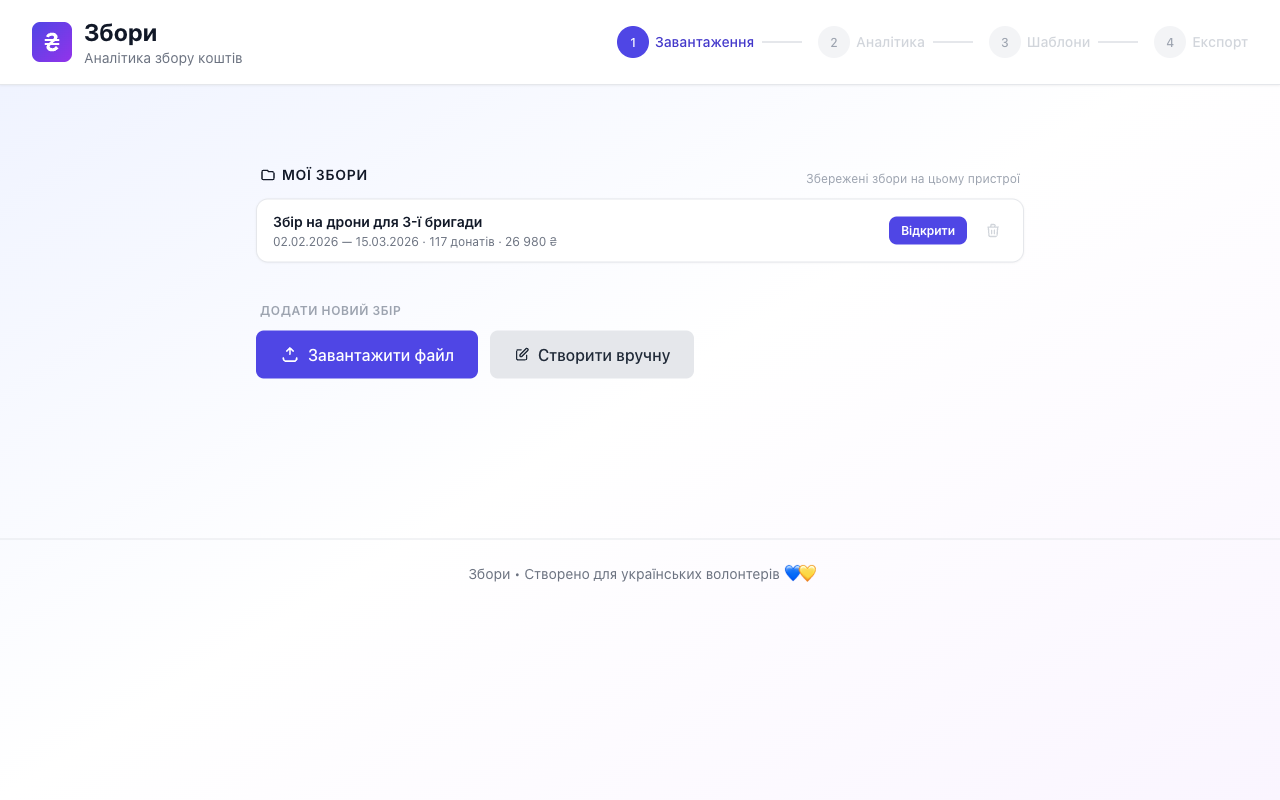
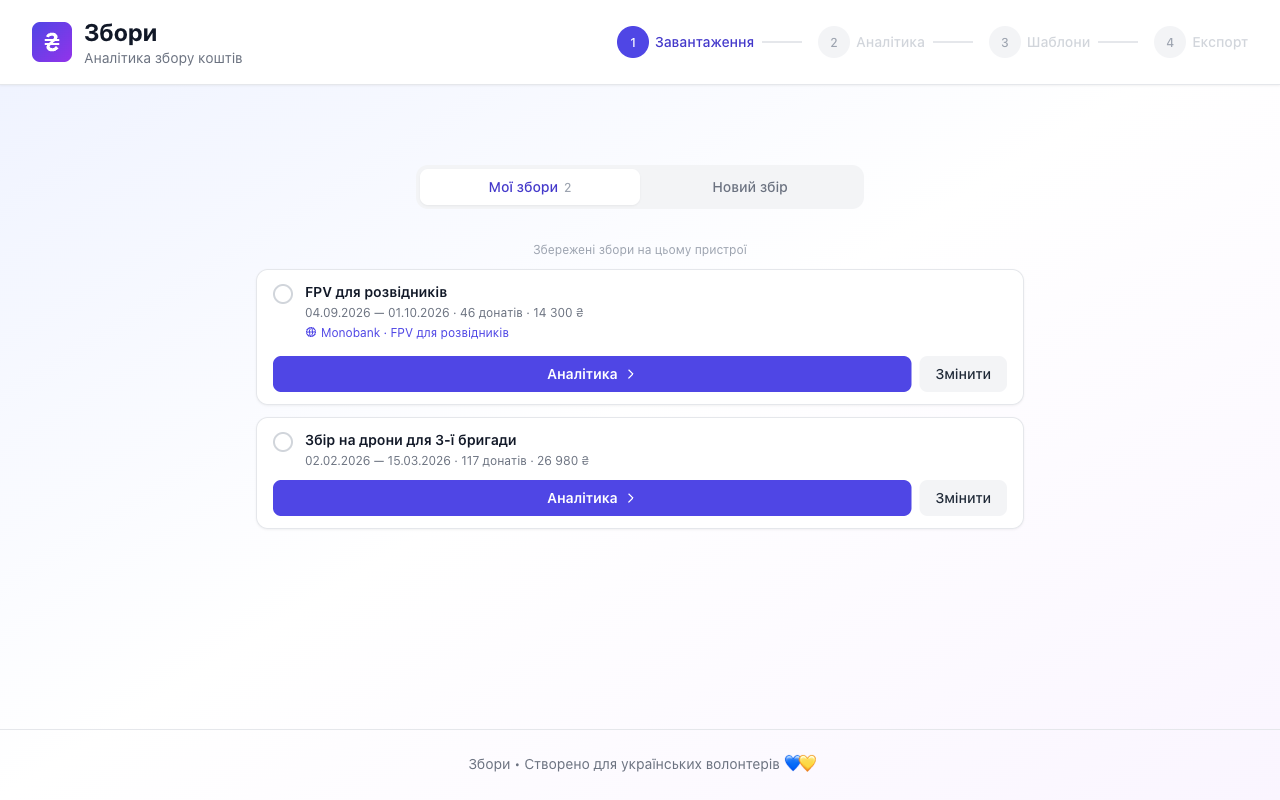
docs: Monobank API guide, refreshed step 1, recent features
Step-by-step guide for importing from the Monobank API (token, jar, range,
review, update later, troubleshooting, what is and isn't stored), new
screenshots of step 1 (tabs, project rows, Змінити menu, new-project options)
and the import screens, plus small updates for recent changes (backgrounds
shrunk on upload, installed-app status bar, test coverage, project layout).
All screenshots use synthetic data and a stubbed API.

diff --git a/README.md b/README.md
@@ -4,7 +4,7 @@
 
 **[Open the app → yuliana7.github.io/zbory](https://yuliana7.github.io/zbory/)**
 
-> 🇺🇦 **Коротко:** веб-застосунок для волонтерів. Завантажте CSV-виписку банки monobank — отримайте аналітику збору, підказки «що робити далі» та 19 готових шаблонів для сторіс і дописів з вашим фоном, кольорами та текстами. Усе працює у браузері, дані нікуди не надсилаються. Інтерфейс — українською.
+> 🇺🇦 **Коротко:** веб-застосунок для волонтерів. Завантажте CSV-виписку банки monobank або отримайте дані одразу через Monobank API (за персональним токеном, без файлу) — отримайте аналітику збору, підказки «що робити далі» та 19 готових шаблонів для сторіс і дописів з вашим фоном, кольорами та текстами. Усе працює у браузері, дані нікуди не надсилаються. Інтерфейс — українською.
 
 <p align="center">
   <img src="docs/screenshots/05-export-mobile.png" alt="Editing a progress card on a phone" width="260">
@@ -16,7 +16,7 @@
 
 Running a fundraiser is two jobs. The first is raising the money; the second is *keeping people engaged* — posting updates, saying thank you, showing how far you've come and what's still missing. Volunteers usually do the second job by hand: copy numbers out of a bank statement, work out percentages, then fight a design tool on a phone at midnight.
 
-Monobank jars give you a CSV statement and not much else. Zbory takes that file and does the tedious parts:
+Monobank jars give you a CSV statement (or an API) and not much else. Zbory takes that data and does the tedious parts:
 
 - **See what's happening** — totals, pace, best day, who donates repeatedly, when your audience is online, and a forecast of when you'll hit the goal.
 - **Know what to post** — it spots share-worthy moments ("100 donations!", "a quarter of the goal", "record day") and links straight to the matching template.
@@ -26,13 +26,23 @@ It is built for Ukrainian volunteers, mostly working from a phone, so the whole 
 
 ## Screenshots
 
-| Upload & saved fundraisers | Analytics |
-| :---: | :---: |
-| ![Upload page with the library of saved fundraisers](docs/screenshots/01-upload.png) | ![Analytics page with friends chart, insights and charts](docs/screenshots/03-analytics.png) |
+**Step 1 — your projects, and three ways to start a new one**
 
-| File preview, goal & friendly jars | Template gallery |
+| Saved projects | New project | On desktop |
+| :---: | :---: | :---: |
+| ![Saved projects, each with Аналітика → and Змінити](docs/screenshots/07a-step1-projects.png) | ![CSV, Monobank API or manual entry](docs/screenshots/07b-step1-new-project.png) | ![Step 1 on desktop](docs/screenshots/01-upload.png) |
+
+**The rest of the flow**
+
+| File preview, goal & friendly jars | Analytics |
 | :---: | :---: |
-| ![Preview of the parsed statement with goal and friendly jars](docs/screenshots/02-preview.png) | ![Template gallery](docs/screenshots/04-gallery.png) |
+| ![Preview of the parsed statement with goal and friendly jars](docs/screenshots/02-preview.png) | ![Analytics page with friends chart, insights and charts](docs/screenshots/03-analytics.png) |
+
+| Template gallery |
+| :---: |
+| ![Template gallery](docs/screenshots/04-gallery.png) |
+
+Importing from the Monobank API has its own [step-by-step guide](#importing-from-monobank-step-by-step) below.
 
 ## Features
 
@@ -49,7 +59,7 @@ It is built for Ukrainian volunteers, mostly working from a phone, so the whole 
 - **19 templates** in five groups: progress, activity, people, friendly jars and reports.
 - **Three formats:** 1080×1080 post, 1080×1350 (4:5) post, 1080×1920 Story.
 - **Everything is removable** — tap an element in edit mode to hide it; edit any label or text.
-- **Your own background** with a full-screen, gesture-isolated editor: drag, pinch-to-zoom, two-finger rotate, brightness and opacity. The page doesn't scroll or move the photo by accident while you edit.
+- **Your own background** with a full-screen, gesture-isolated editor: drag, pinch-to-zoom, two-finger rotate, brightness and opacity. The page doesn't scroll or move the photo by accident while you edit. Large phone photos are scaled down to 3000 px on upload (about 1:1 at maximum zoom), which keeps exports and saved projects light.
 - 8 colour palettes, font scaling, per-card date ranges.
 - **Series:** build several cards at once; they share one background and style (a card can detach and keep its own).
 - **Themes:** save the current look under a name and switch between looks across fundraisers. Applying a theme copies it, so editing or deleting a theme never changes a card you already made.
@@ -61,31 +71,64 @@ It is built for Ukrainian volunteers, mostly working from a phone, so the whole 
 - **Compare fundraisers:** open several at once for a cross-campaign view and report templates ("Звіт за період", comparison chart).
 
 ### Monobank API import
-Instead of exporting a CSV, paste your personal API token (generated at [api.monobank.ua](https://api.monobank.ua/)) on the first step:
-
-1. The app lists your jars (hryvnia jars only, with balance and goal).
-2. Pick a jar and a date range (default: the last 30 days).
-3. The donations land in the same editable table as manual entry — review or fix rows, then continue as usual. The jar's goal prefills the campaign goal.
-4. Save the campaign: the jar's id and name are remembered, so reopening it offers **Оновити з Monobank**, which fetches from the newest saved day and merges, skipping duplicates.
-
-The token is **never stored** — it lives in memory on that screen and is sent only to `api.monobank.ua`. Monobank allows one request per minute per endpoint and 31 days per statement request, so the app spaces repeated requests to the same endpoint 61 seconds apart (time you spend in the UI counts) and fetches longer ranges in windows automatically, with a visible countdown (a long campaign takes a few minutes). If Monobank answers "too many requests" anyway, the app waits and retries. You can stop at any time.
+Skip the CSV: paste your personal API token and the app pulls a jar's donations directly — jar picker, date range, review table, and later **Оновити з Monobank** to fetch only what's new. The token is never stored. See the [step-by-step guide](#importing-from-monobank-step-by-step).
 
 ### Friendly jars (дружні збори)
 Monobank lets helpers open their own jars that pay into yours. Those donations are already in your statement, just without saying who brought them. Enter each helper's name and the amount they raised and you get a leaderboard, a "share of the jar" card, a chart on the analytics page, and an optional "of which via friends" line on the progress card. It is **attribution only** — it never changes your totals.
 
 ### Everything else
-- Installable **PWA**, works offline after the first visit, with an update prompt.
+- Installable **PWA**, works offline after the first visit, with an update prompt. The installed app paints the status-bar area in the app's indigo on both iOS and Android.
 - **Private by design:** no backend, no accounts, no analytics. Your statement is parsed in the browser and stays there (localStorage for the last session, IndexedDB for saved fundraisers). The only network requests are for the app's own files.
 - Self-hosted Inter font (Cyrillic included), so exported PNGs look the same on every device.
 
 ## How to use it
 
 1. **Get your data.** Either export the jar's statement as **CSV** in the monobank app (Monobank support can also send a statement file; the app understands both layouts), or use *З Monobank API* with a personal token — no file needed.
-2. **Upload** the CSV on the first step, import via the API, or choose *Створити вручну* to type donations in. Check the preview, optionally set a goal and add friendly jars, then continue.
+2. **Start a project** in *Новий збір*: upload the CSV, [import via the Monobank API](#importing-from-monobank-step-by-step), or choose *Створити вручну*. Check the preview, optionally set a goal and add friendly jars, then continue.
 3. **Read the analytics.** Tap a highlighted moment to jump to a matching template, or go on to the gallery.
 4. **Pick one or more templates.** Select several to make a series with a shared look.
 5. **Edit and export.** Change the format, add your photo (*Фон та стиль → Редагувати позицію*), hide elements, edit text, save a theme, then **Завантажити PNG** (or the ZIP for a series).
 6. **Save the fundraiser** from the preview or analytics step if you'll be back — next time pick it in *Мої збори* and tap **Аналітика →** (or **Змінити** to refresh its data first).
+
+## Importing from Monobank (step by step)
+
+No CSV needed: the app can read a jar's donations straight from Monobank with a personal API token. It takes about a minute the first time.
+
+<p align="center">
+  <img src="docs/screenshots/08-monobank-token.png" alt="Instructions and token field" width="230">
+  &nbsp;
+  <img src="docs/screenshots/09-monobank-jars.png" alt="Choosing a jar" width="230">
+  &nbsp;
+  <img src="docs/screenshots/10-monobank-range.png" alt="Choosing the date range" width="230">
+</p>
+
+### 1. Get a token
+1. Open **[api.monobank.ua](https://api.monobank.ua/)** and sign in through the monobank app.
+2. Copy the personal token the site shows you. (The same instructions are on the import screen.)
+
+### 2. Import
+1. On step 1 open **Новий збір → З Monobank API**.
+2. Paste the token and tap **Показати мої банки**.
+3. Pick the jar. Only **hryvnia** jars can be imported; jars in other currencies are listed but greyed out. The jar's goal is used as the campaign goal.
+4. Choose the dates — by default the **last 30 days**. Tap **Отримати виписку**.
+5. The donations appear in the same table as manual entry. Fix anything that looks off, then tap **Готово** and carry on as usual (goal, friendly jars, analytics…).
+6. **Save** the project. It's named after the jar by default.
+
+### 3. Update it later
+Open **Мої збори → Змінити → Оновити з Monobank** on that project (you'll see "Monobank · <jar name>" under its name). Paste a token again, and the app fetches from the day of your newest saved donation and merges the result, skipping anything already there.
+
+<p align="center">
+  <img src="docs/screenshots/11-project-menu.png" alt="The Змінити menu on a saved project" width="230">
+</p>
+
+### Good to know
+- **Your token stays on your device.** It lives in memory on that screen only: it is never saved (not in the project, not in the browser's storage), never logged, and is sent only to `api.monobank.ua`. Only the donations it returned, and the jar's id and name, are saved.
+- **Long periods take a few minutes.** Monobank allows one request per minute per endpoint and 31 days per statement request, so a long range is fetched in parts with a visible countdown, and you can stop at any time. A short range is instant.
+- **"Monobank did not accept the token"** — copy it again, completely, with no extra characters.
+- **"Monobank asks to wait"** — you hit its rate limit; the app waits a minute and retries by itself.
+- **Nothing found for the period** — pick wider dates.
+- **Friendly jars.** Donations that came through helpers are included like any other donation, but Monobank doesn't say who brought them, so [helper amounts stay manual](#friendly-jars-дружні-збори).
+- No token handy? The CSV export and manual entry work exactly as before.
 
 ## Tech stack
 
@@ -118,7 +161,8 @@ src/
   components/
     templates/        the 19 card templates + shared card shell
     insights/         charts and analytics panels
-    upload/           file upload, preview table, manual entry, campaign library
+    upload/           new-project options, preview table, manual entry, Monobank import,
+                      saved-project list and its Змінити menu
   context/          app state (reducer) and session wiring
   utils/            parsing, aggregation, insights, storage, export, template config
   i18n/locales/uk/  all UI strings
@@ -144,7 +188,7 @@ npm run dev          # http://localhost:5173/zbory/
 
 ### Tests
 
-`npm run test:render` bundles each `tests/render/*Test.ts(x)` suite with esbuild and runs it in Node. They cover template markup (server-rendered), insight and balance maths, the campaign/theme stores, merging, and friendly jars. Fixtures in `tests/data/` are **synthetic** statements — nothing in the repo is a real donor's data.
+`npm run test:render` bundles each `tests/render/*Test.ts(x)` suite with esbuild and runs it in Node. They cover template markup (server-rendered), insight and balance maths, the campaign/theme stores, merging, friendly jars, the Monobank client (windowing, paging, rate limits, mapping — with a faked `fetch` and clock), the edit-mode button layout, and image resizing. Fixtures in `tests/data/` are **synthetic** statements — nothing in the repo is a real donor's data.
 
 To try the app without your own statement, upload `tests/data/Zbir_long.csv`.
 
